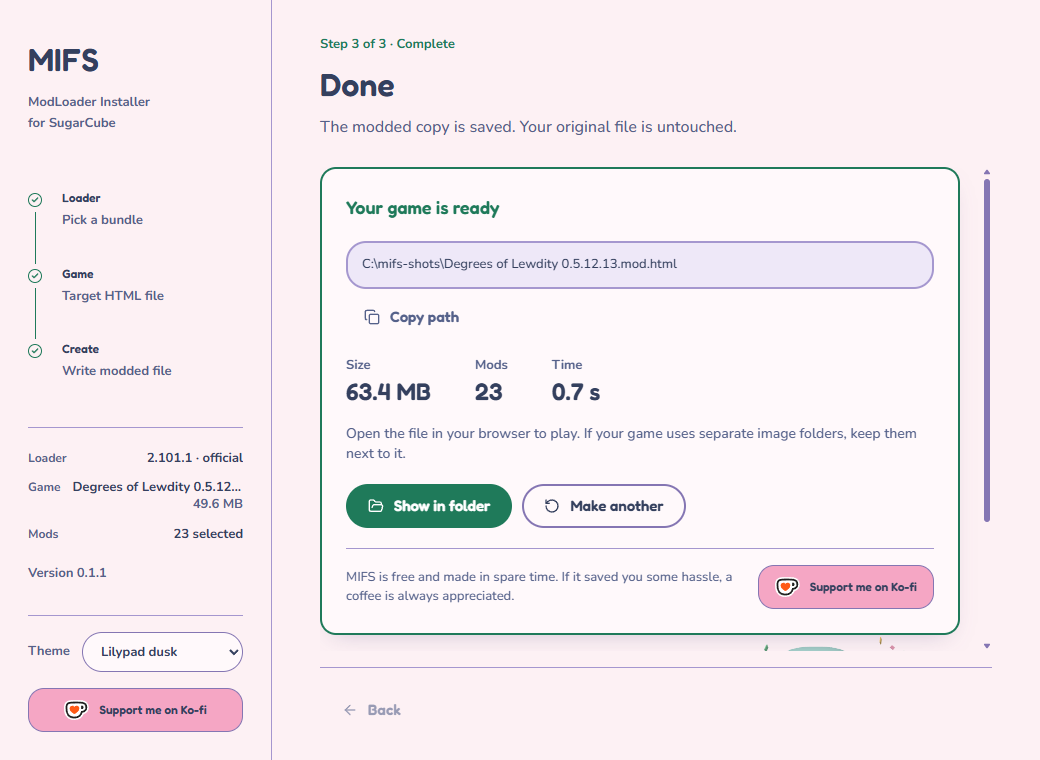
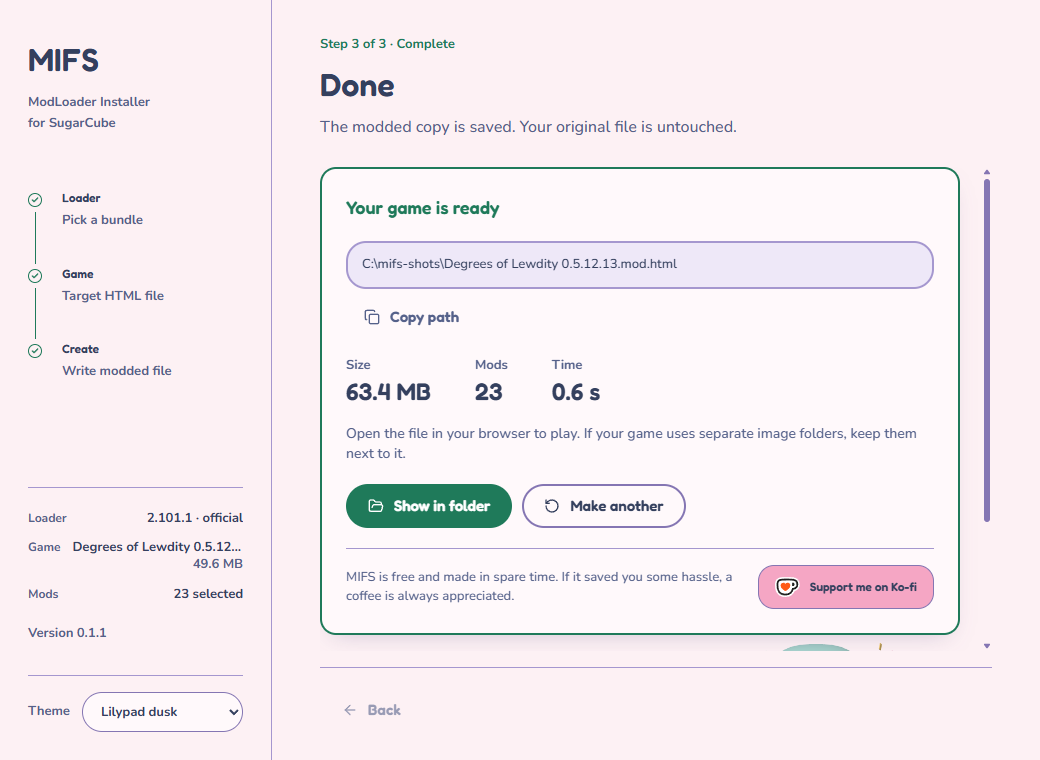
Show one Ko-fi button on the finish screen and refresh the README screenshots

diff --git a/packages/ui/src/App.tsx b/packages/ui/src/App.tsx
@@ -210,7 +210,8 @@ function Rail({
       <div className="mt-4" />
       <UpdateNotice platform={platform} />
       <ThemeSelect theme={theme} onChange={setTheme} />
-      <SupportLink className="mt-4 w-full" />
+      {/* The finish screen has its own, better-timed ask. */}
+      {!allDone && <SupportLink className="mt-4 w-full" />}
     </nav>
   );
 }

diff --git a/README.md b/README.md
@@ -49,9 +49,11 @@ MIFS updates itself when a new release is published.
 
 ## Screenshots
 
-| Choose a game | Create your game | Done |
-|---|---|---|
-| ![Choose a game](docs/screenshots/2-game.png) | ![Create your game](docs/screenshots/3-install.png) | ![Done](docs/screenshots/4-done.png) |
+| Choose a loader | Choose a game |
+|---|---|
+| ![Choose a loader](docs/screenshots/1-loader.png) | ![Choose a game](docs/screenshots/2-game.png) |
+| **Create your game** | **Done** |
+| ![Create your game](docs/screenshots/3-install.png) | ![Done](docs/screenshots/4-done.png) |
 
 ## Supported games
 
